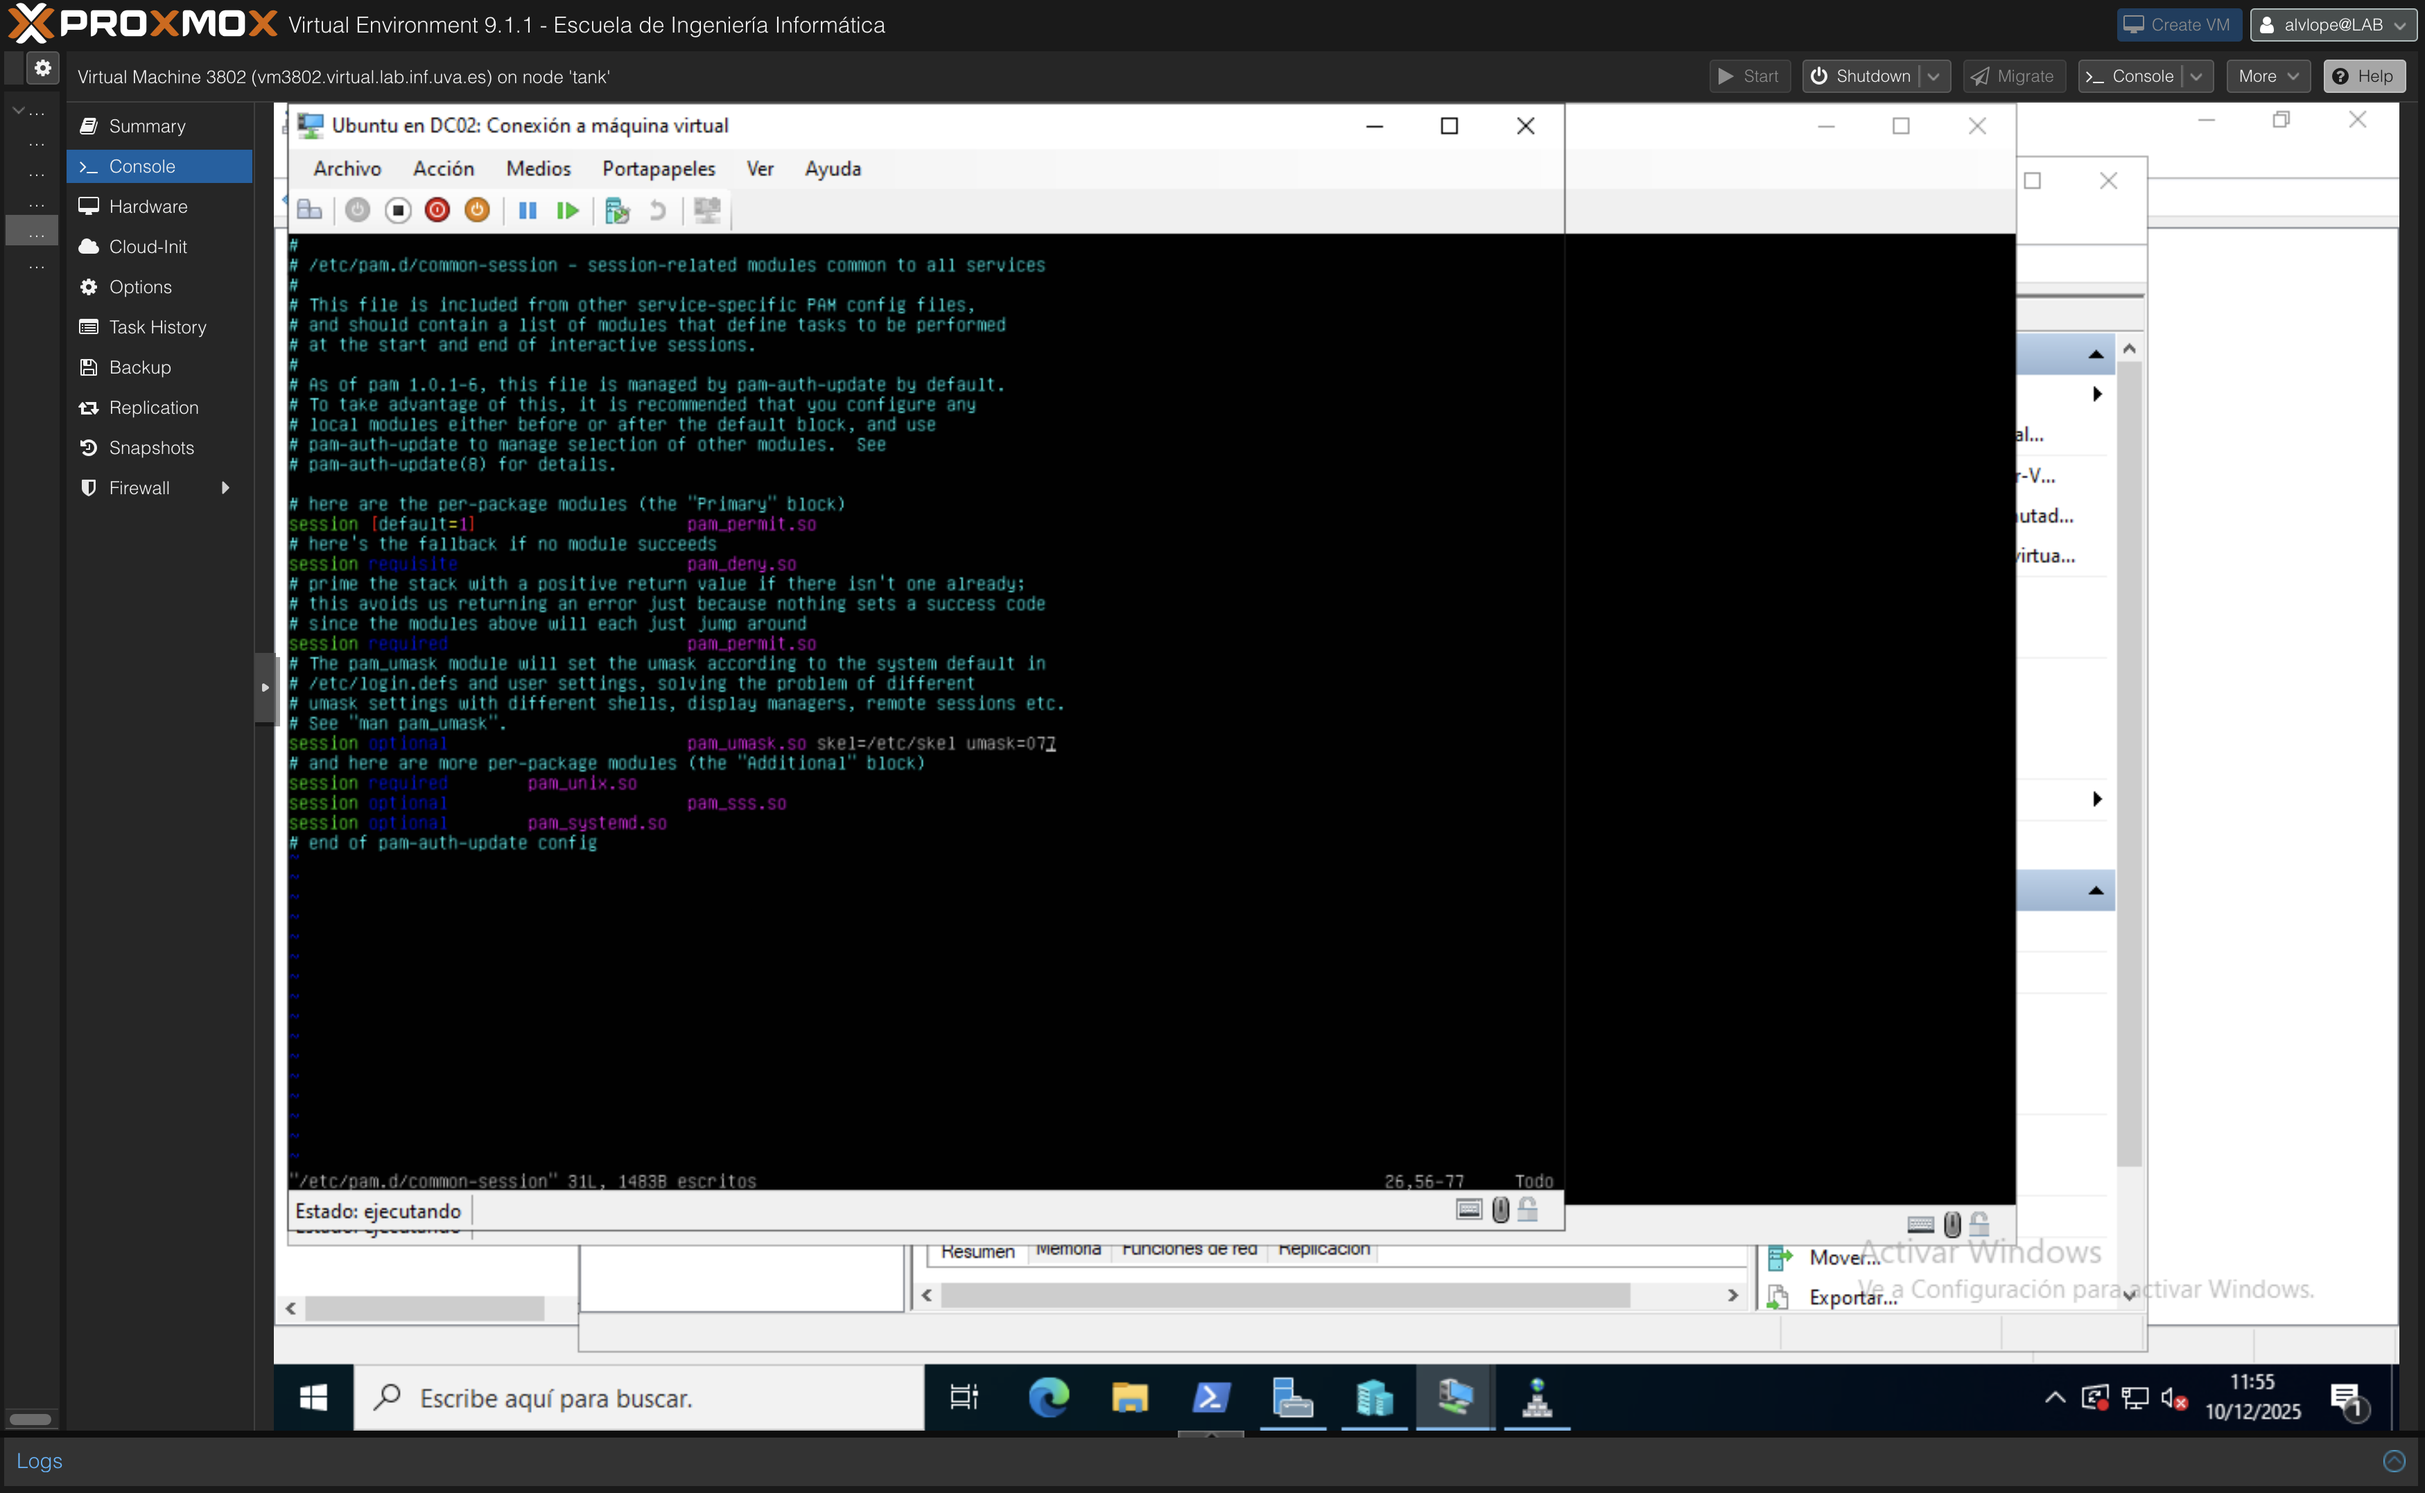
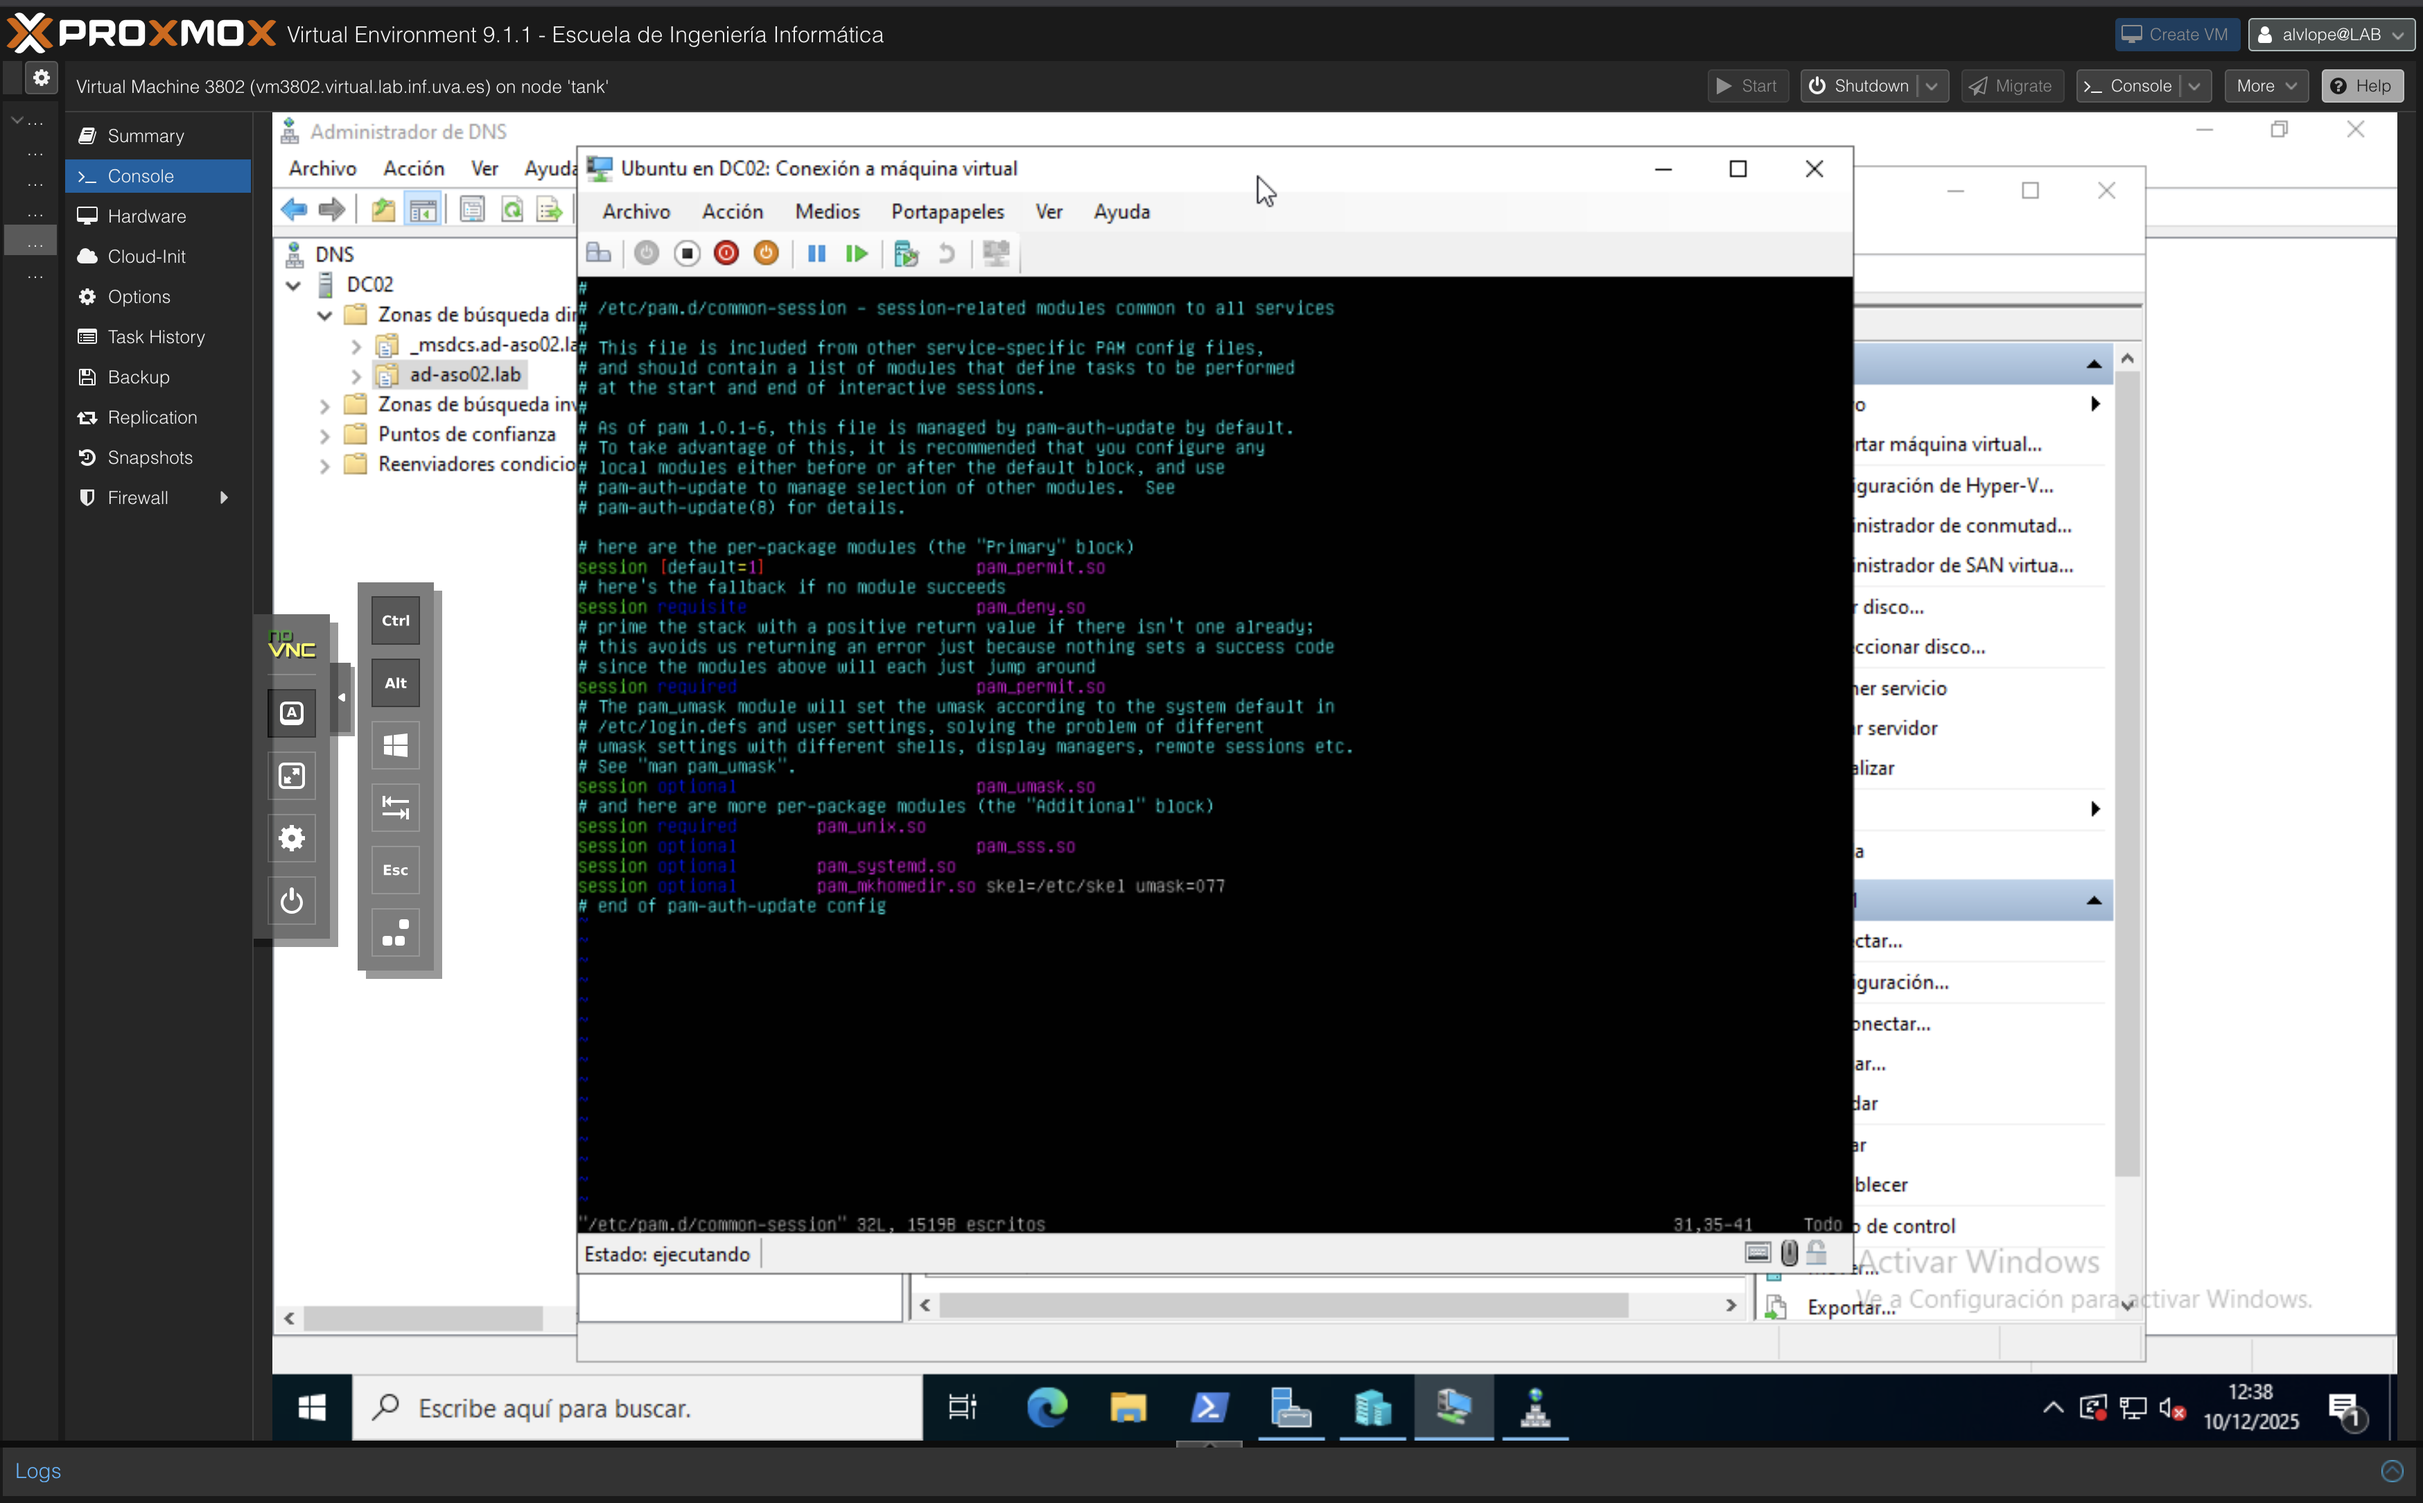
feat: pg 32/32

diff --git a/Template.tex b/Template.tex
@@ -949,9 +949,18 @@
 				\end{minipage}
 				\hfill
 				\begin{minipage}{0.55\textwidth}
-					\textit{PAM (Pluggable Authentication Modules}) es un marco de trabajo de bajo nivel en Linux que separa los programas de la autenticación real. Cuando un programa (como\textit{ login, sudo o sshd}) necesita autenticar a un usuario, simplemente llama a la biblioteca PAM y consulta los archivos de configuración (\textit{/etc/pam.d/*}) para determinar qué módulos debe ejecutar.
+					\textit{PAM (Pluggable Authentication Modules}) es un marco de trabajo de bajo nivel en Linux que separa los programas de la autenticación real. Cuando un programa (como\textit{ login, sudo o sshd}) necesita autenticar a un usuario, simplemente llama a la biblioteca PAM y consulta los archivos de configuración (\textit{/etc/pam.d/*}) para determinar qué módulos debe ejecutar.\\
+					En concreto al añadir la línea \textit{session optional pam\_mkhomedir.so skel=/etc/skel umask=077 } lo que estoy haciendo es: crear el directio\textit{ /home} copiando los ficheros el directorio \textit{/etc/skel} dándole el permisos 700 (rwx- --- - ---) para que sólo el usuario pueda acceder a ese home  (para eso emplea el módulo \textit{mkhomdir.so}). Además es importante colocarlo después del módulo \textit{pam\_sss.so} porque este es el encargado de confirmar la identidad del usuario dentro del \textit{AD}.
 				\end{minipage}
 			\end{center}
+		\subsubsection{\textit{Login} en el dominio con un \textit{/HOME} creado}
+			\begin{figure}[H]
+				\centering
+				\includegraphics[width=\textwidth]{Recursos/homeCreado}
+				\caption{Efectivamente ahora hay un directorio home para el Administrador dentro del dominio en la máquina.}
+			\end{figure}
+\section{Comentarios finales}
+	Aunque los usos del \textit{AD} son muy amplios, en concreto en esta práctica me he centrado en el uso de un autenticador único para poder realizar el inicio de sesión en diferentes máquinas, facilitando la adminitración de los pcs dentro de un dominio. Para esto tenemos que tener en cuenta que hemos aplicado un sistema de autenticación único, con un DNS (en ambas direcciones) para poder resolver los hosts con nombre y con IP, además de virtualizar empleando la tecología \textit{Hyper-V} de una manera muy simple y sencilla, crear conmutadores de red para estas máquinas virtuales y permitir tanto la conexión a internet como la comunicación entre ellas, la primera de las tareas empleando el servidor como orquestador de las redes y las máquinas de tal manera que todo el tráfico pasa por él (tiene sentido puesto que el DNS está instalado en nuestro servidor añadiéndole una capa de seguridad puesto que manejamos direcciones privadas y públicas en el espacio de direcciones.)
 \end{document}
 
 %https://learn.microsoft.com/en-us/openspecs/windows_protocols/ms-rdpbcgr/5073f4ed-1e93-45e1-b039-6e30c385867c
@@ -959,3 +968,4 @@
 %https://learn.microsoft.com/en-us/windows-server/
 %https://learn.microsoft.com/en-us/windows-server/virtualization/hyper-v/overview
 %https://community.nethserver.org/t/active-directory-couldnt-join-realm-insufficient-permissions-to-join-the-domain/24672
+%https://learn.microsoft.com/en-us/windows-server/identity/ad-ds/manage-user-accounts-in-windows-server
